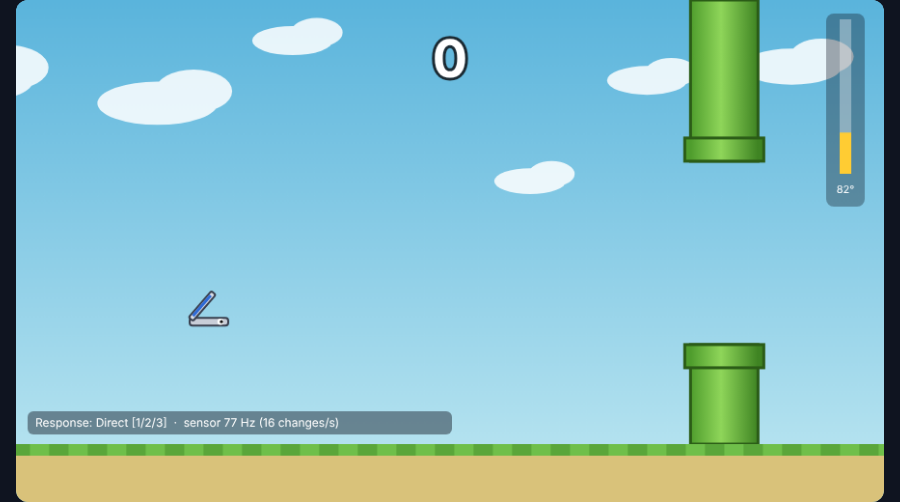
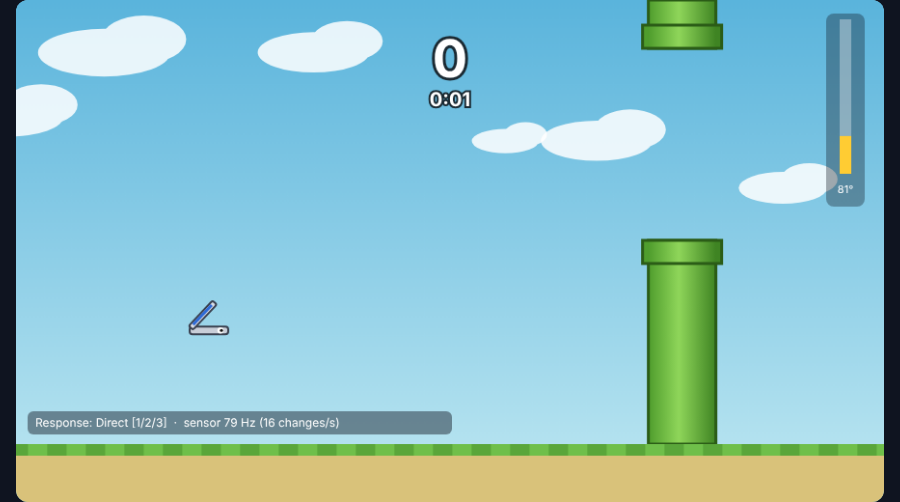
Time-based difficulty: ramps to effectively impossible around 90 s
Speed 220->550 px/s, gap 200->40 px, pipes closer and bigger vertical jumps. Adds a survival timer.

Claude-Session: https://claude.ai/code/session_01TU5B4YFG8vCLWHALzN4b7K

diff --git a/index.html b/index.html
@@ -169,12 +169,15 @@
   const TOP_Y = R + 10, BOT_Y = H - GROUND - R - 10; // bird's reachable band
   let state = 'connect', score = 0, best = 0, t = 0;
   try { best = +localStorage.getItem('lidflap-best') || 0; } catch (e) {}
-  let bird, pipes, speed, gap, spawnTimer, particles, clouds;
+  let bird, pipes, speed, gap, spawnTimer, particles, clouds, playT = 0;
+  // Difficulty is time-based: d = 0 at start, 1 at IMPOSSIBLE_AT seconds.
+  const IMPOSSIBLE_AT = 90;
+  const diff = () => playT / IMPOSSIBLE_AT;
 
   function reset() {
     bird = { y: H / 2, vy: 0, tilt: 0 };
     pipes = []; particles = [];
-    speed = 190; gap = 190; spawnTimer = 0.6; score = 0;
+    speed = 220; gap = 200; spawnTimer = 0.6; score = 0; playT = 0;
   }
   clouds = Array.from({ length: 6 }, (_, i) => ({ x: i * 170 + Math.random() * 80, y: 40 + Math.random() * 160, s: 0.6 + Math.random() * 0.8 }));
   reset();
@@ -183,7 +186,7 @@
     const minTop = 50, maxTop = H - GROUND - gap - 50;
     // keep consecutive gaps reachable but varied
     const prev = pipes.length ? pipes[pipes.length - 1].top : (H - GROUND - gap) / 2;
-    const swing = 220;
+    const swing = 200 + 140 * Math.min(1, diff()); // bigger jumps between gaps over time
     const top = Math.min(maxTop, Math.max(minTop, prev + (Math.random() * 2 - 1) * swing));
     pipes.push({ x: W + 40, top, gap, w: 70, passed: false });
   }
@@ -228,10 +231,12 @@
       return;
     }
 
-    speed = 190 + score * 4;
-    gap = Math.max(130, 190 - score * 2);
+    playT += dt;
+    const d = diff();
+    speed = Math.min(700, 220 + 330 * d);      // 220 px/s -> 550 px/s at 90 s
+    gap = Math.max(28, 200 - 160 * d);          // 200 px -> 40 px at 90 s, smaller than the bird soon after
     spawnTimer -= dt;
-    if (spawnTimer <= 0) { spawn(); spawnTimer = 300 / speed + 0.9; }
+    if (spawnTimer <= 0) { spawn(); spawnTimer = Math.max(300, 420 - 120 * d) / speed; } // pipes get closer together too
 
     for (const p of pipes) {
       p.x -= speed * dt;
@@ -305,6 +310,9 @@
     if (state === 'play' || state === 'over') {
       ctx.font = 'bold 54px system-ui,sans-serif';
       ctx.strokeText(score, W / 2, 80); ctx.fillText(score, W / 2, 80);
+      const secs = Math.floor(playT), clock = `${Math.floor(secs / 60)}:${String(secs % 60).padStart(2, '0')}`;
+      ctx.font = 'bold 20px system-ui,sans-serif'; ctx.lineWidth = 4;
+      ctx.strokeText(clock, W / 2, 110); ctx.fillText(clock, W / 2, 110);
     }
     const ang = lidAngle !== null ? Math.round(lidAngle) + '°' : '—';
     if (state === 'connect') banner('LID FLAP', 'Step 1/4 · Press Space to connect the lid sensor');
@@ -316,7 +324,7 @@
       smallBanner(ready ? 'Step 4/4 · Feels good? Press Space to start  ·  C = recalibrate'
                         : `Step 4/4 · Test it: fly into both the TOP and BOTTOM zones  (${range})`);
     }
-    if (state === 'over') banner('GAME OVER', `Score ${score} · Best ${best} · Space to retry · C to recalibrate`);
+    if (state === 'over') banner('GAME OVER', `Score ${score} · Survived ${Math.floor(playT)} s · Best ${best} · Space to retry · C to recalibrate`);
   }
 
   function smallBanner(text) {
